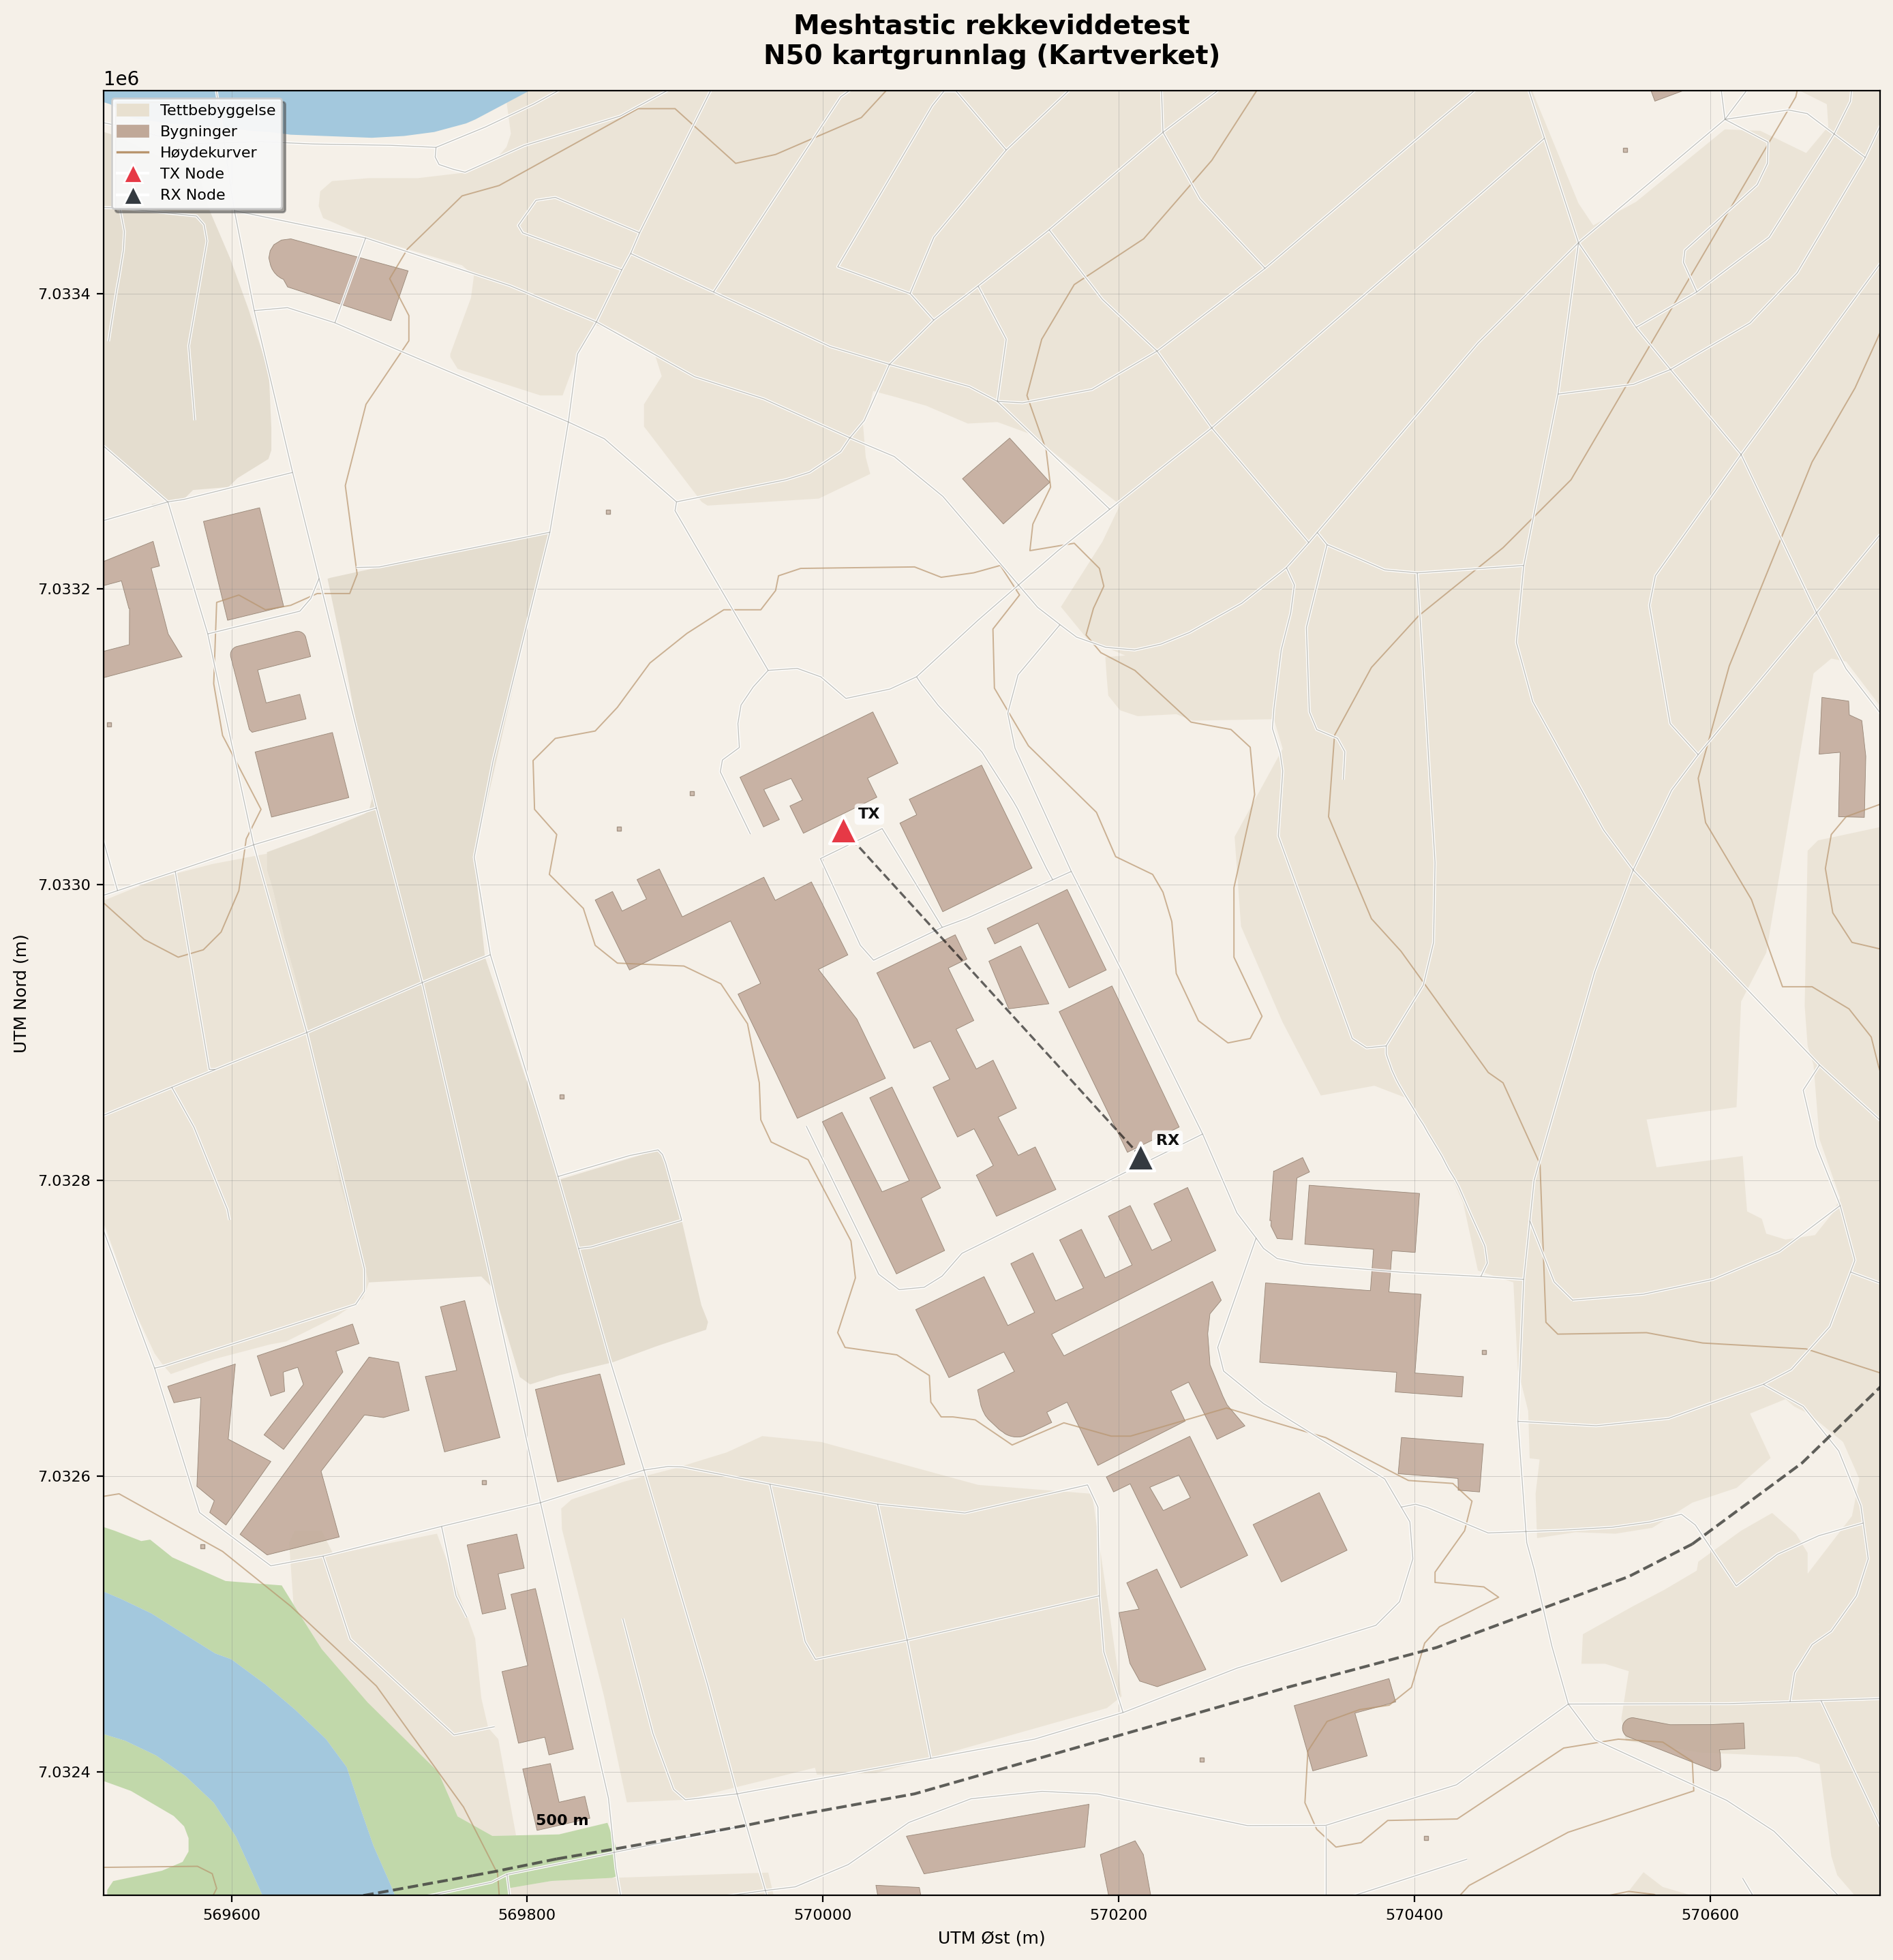
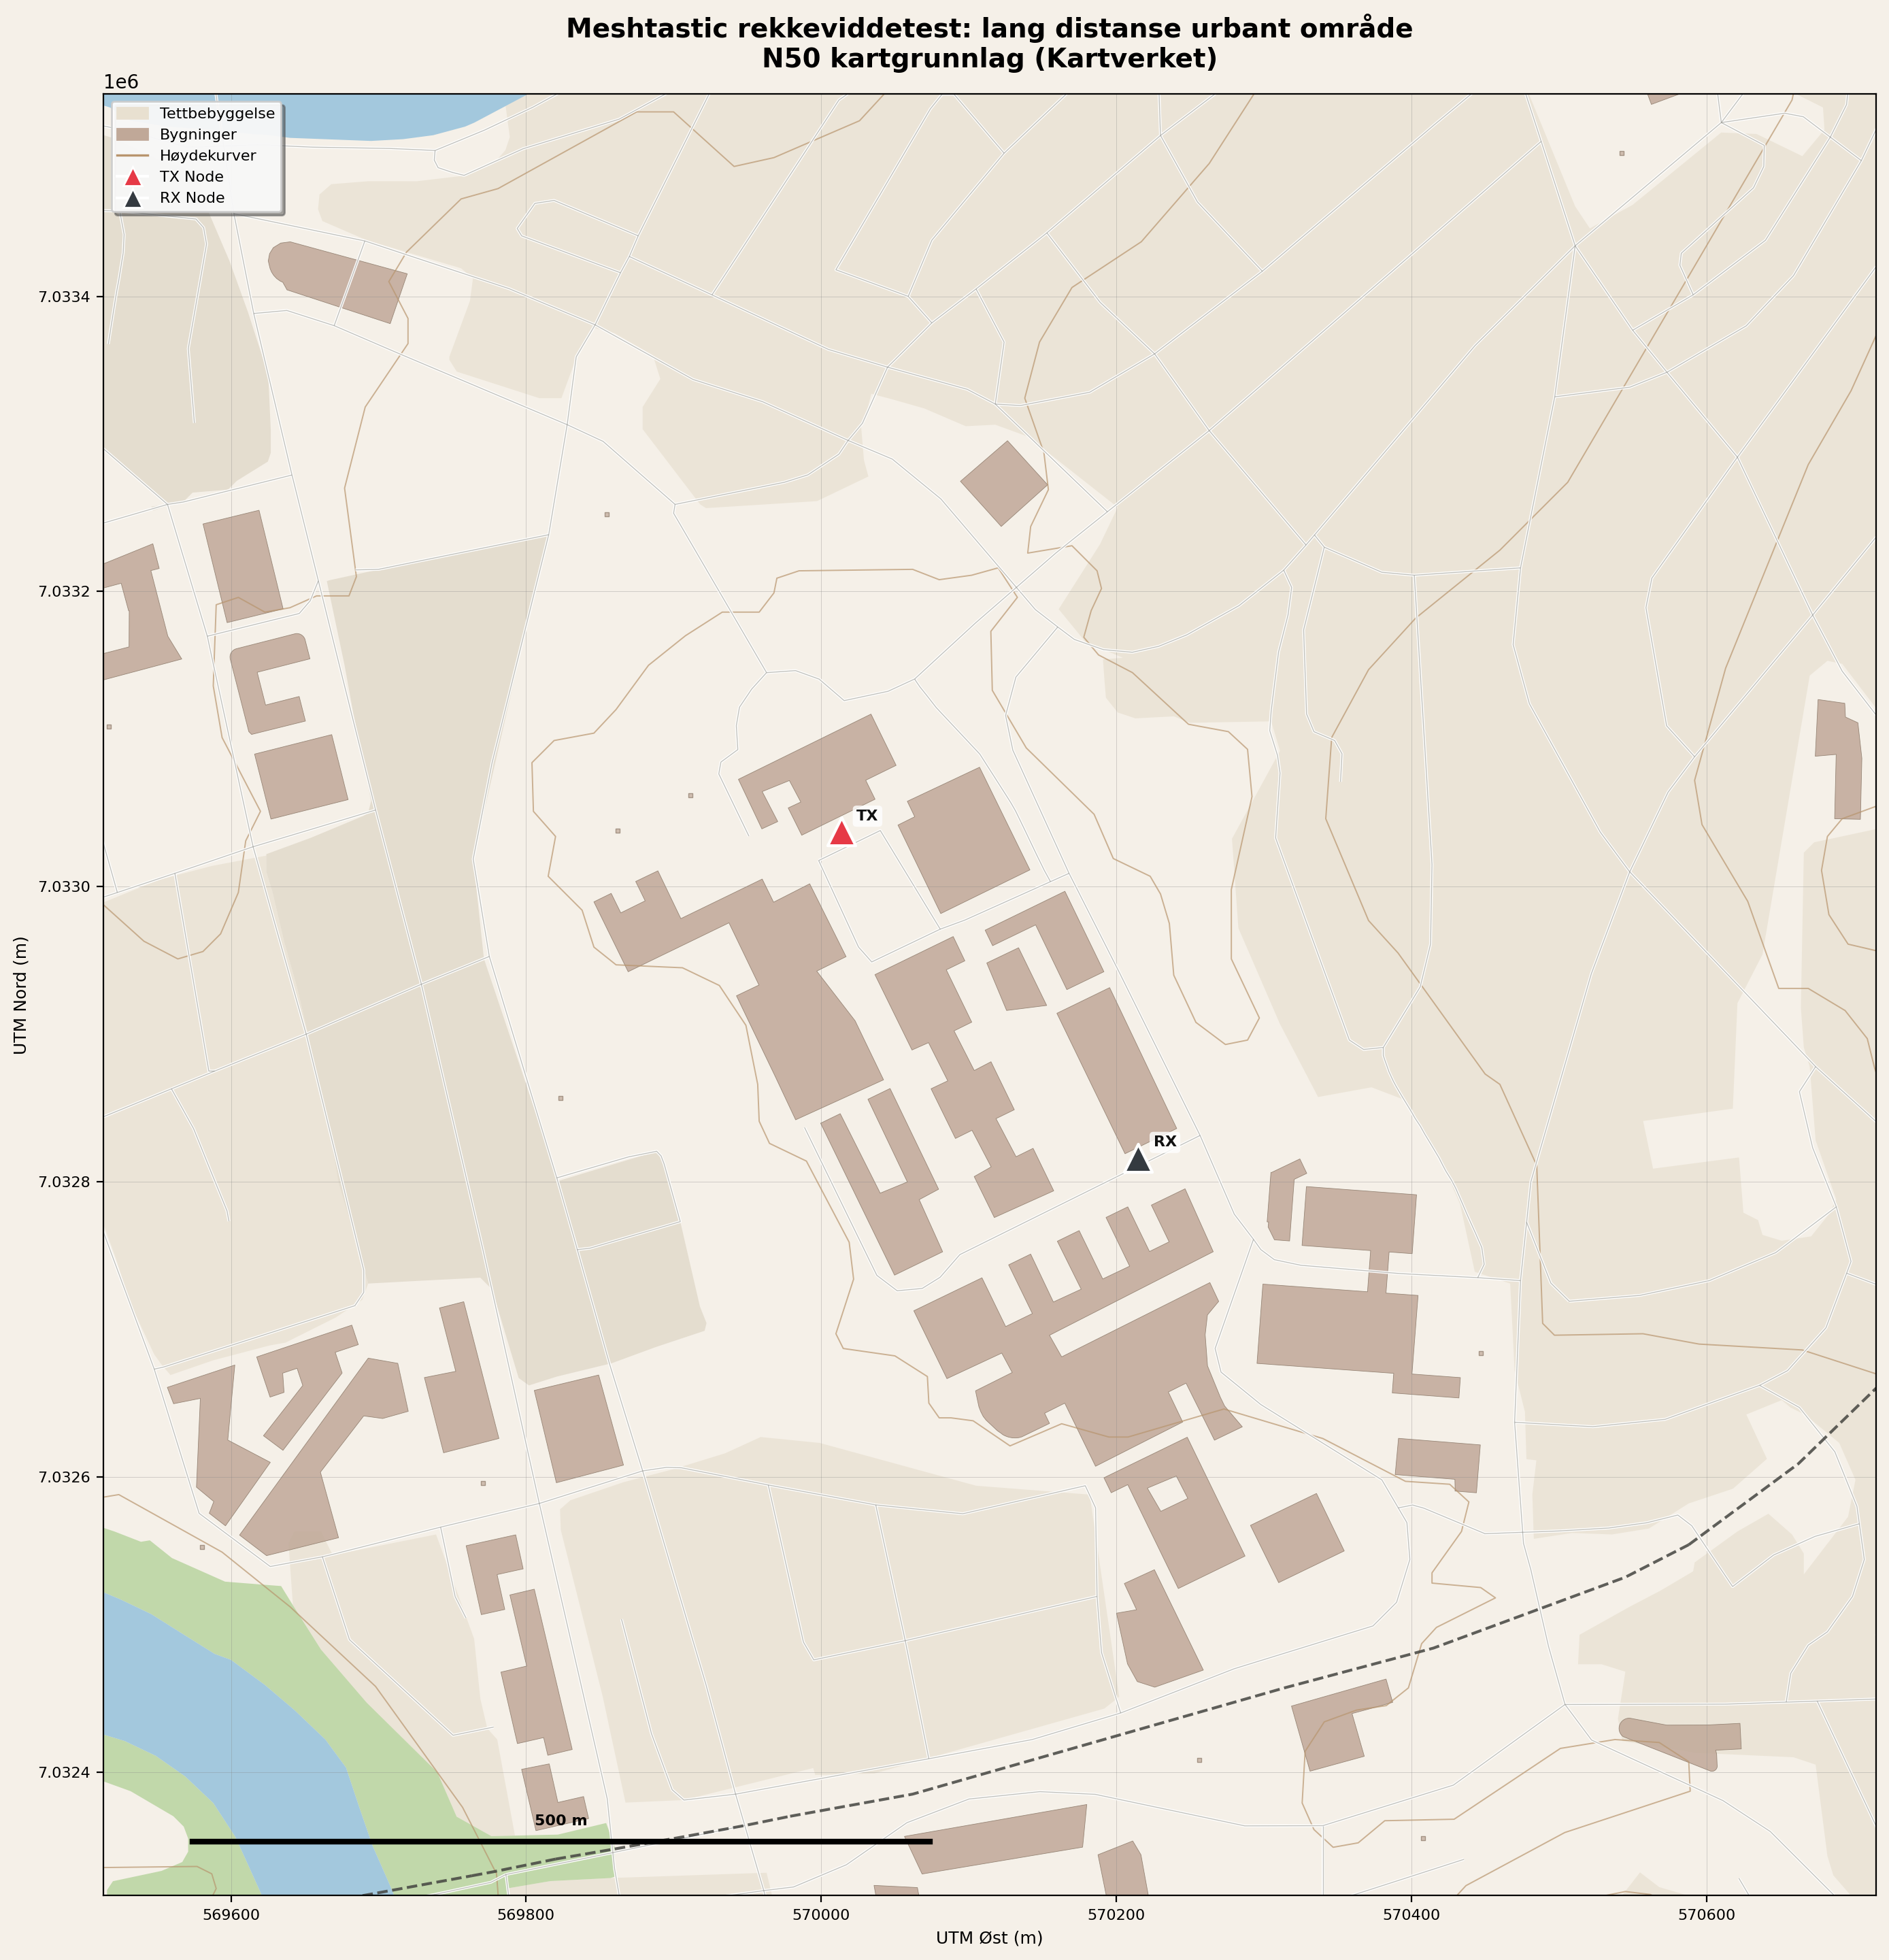
Alle csv filene ble ikke med sist gang

diff --git a/Plots/plot_meshtastic_n50_Filip.py b/Plots/plot_meshtastic_n50_Filip.py
@@ -26,13 +26,13 @@ UTFIL      = "Graakallen_estenstad_filip.png"
 OPPLOSNING = 200        # DPI
 FIGSTR     = (14, 16)   # Figurstørrelse i tommer
 
-# ── NEW MANUALLY DEFINED NODES ───────────────────────────────────────────────
-NODE_1_LAT, NODE_1_LON = 63.418969, 10.402455  # TX Node
-NODE_2_LAT, NODE_2_LON = 63.416946, 10.406386  # RX Node
+# ── OPPDATERTE KOORDINATER ───────────────────────────────────────────────────
+NODE_1_LAT, NODE_1_LON = 63.418140, 10.404026  # Ny TX Node-posisjon
+NODE_2_LAT, NODE_2_LON = 63.416946, 10.406386  # RX Node (forblir uendret)
 
 # ── ZOOM / KARTUTSNITT ───────────────────────────────────────────────────────
 ZOOM_MODUS   = "auto"      
-MARGIN_METER = 500         # Reduced margin to get a closer view of these two nodes
+MARGIN_METER = 500         # Buffer rundt nodene i meter
 
 # ─────────────────────────────────────────────────────────────────────────────
 # KOORDINATKONVERTERING
@@ -43,11 +43,11 @@ to_utm = Transformer.from_crs("EPSG:4326", "EPSG:25832", always_xy=True)
 def wgs84_til_utm(lat, lon):
     return to_utm.transform(lon, lat)
 
-# Convert our two specific manual nodes to UTM
+# Konverter de to spesifikke nodene til UTM
 node1_x, node1_y = wgs84_til_utm(NODE_1_LAT, NODE_1_LON)
 node2_x, node2_y = wgs84_til_utm(NODE_2_LAT, NODE_2_LON)
 
-# Calculate bounding box around our two specific nodes
+# Beregn boks basert på de nye posisjonene
 xmin = min(node1_x, node2_x) - MARGIN_METER
 xmax = max(node1_x, node2_x) + MARGIN_METER
 ymin = min(node1_y, node2_y) - MARGIN_METER
@@ -137,18 +137,15 @@ if len(veglenke):
 if len(bane):
     bane.plot(ax=ax, color='#444440', linewidth=1.5, alpha=0.85, linestyle='--')
 
-# ── PLOT THE TWO MANUALLY FIXED NODES ────────────────────────────────────────
+# ── PLOT NODENE ──────────────────────────────────────────────────────────────
 
-# 1. Clean line directly between the nodes (No text boxes along the line)
-ax.plot([node1_x, node2_x], [node1_y, node2_y], 'k--', linewidth=1.2, alpha=0.6, zorder=5)
-
-# 2. Plot TX Node (Red Triangle)
+# 1. Plot TX Node (Rød trekant - Ny posisjon)
 ax.scatter(node1_x, node1_y, c='#e63946', s=220, zorder=20, marker='^', edgecolors='white', linewidths=1.5)
 ax.annotate('TX', (node1_x, node1_y), textcoords='offset points', xytext=(8, 6),
             fontsize=8, fontweight='bold', color='#111111',
             bbox=dict(boxstyle='round,pad=0.25', facecolor='white', alpha=0.8, edgecolor='none'))
 
-# 3. Plot RX Node (Dark Slate Triangle)
+# 2. Plot RX Node (Mørkegrå trekant)
 ax.scatter(node2_x, node2_y, c='#343a40', s=220, zorder=20, marker='^', edgecolors='white', linewidths=1.5)
 ax.annotate('RX', (node2_x, node2_y), textcoords='offset points', xytext=(8, 6),
             fontsize=8, fontweight='bold', color='#111111',
@@ -162,13 +159,12 @@ legend_el = [
     Line2D([0],[0], color='#b8956e', linewidth=1.2, label='Høydekurver'),
     Line2D([0],[0], marker='^', color='w', markerfacecolor='#e63946', markersize=10, markeredgecolor='white', label="TX Node"),
     Line2D([0],[0], marker='^', color='w', markerfacecolor='#343a40', markersize=10, markeredgecolor='white', label="RX Node")
-    #Line2D([0],[0], color='k', linestyle='--', linewidth=1.2, label="TX-RX linje")
 ]
 
 ax.legend(handles=legend_el, loc='upper left', fontsize=8, framealpha=0.92, fancybox=True, shadow=True)
 
 # --- Rutenett og tittel ---
-ax.set_title('Meshtastic rekkeviddetest\nN50 kartgrunnlag (Kartverket)', fontsize=14, fontweight='bold', pad=14)
+ax.set_title('Meshtastic rekkeviddetest: kort distanse urbant område\nN50 kartgrunnlag (Kartverket)', fontsize=14, fontweight='bold', pad=14)
 ax.set_xlabel('UTM Øst (m)',  fontsize=9)
 ax.set_ylabel('UTM Nord (m)', fontsize=9)
 ax.tick_params(labelsize=8)
@@ -178,7 +174,7 @@ ax.grid(True, linewidth=0.3, alpha=0.4, color='#888888')
 skala_m = 500
 scale_x = xmin + (xmax - xmin) * 0.05
 scale_y = ymin + (ymax - ymin) * 0.03
-#ax.plot([scale_x, scale_x + skala_m], [scale_y, scale_y], 'k-', linewidth=3, zorder=25)
+ax.plot([scale_x, scale_x + skala_m], [scale_y, scale_y], 'k-', linewidth=3, zorder=25)
 ax.text(scale_x + skala_m / 2, scale_y + (ymax - ymin) * 0.009, f'{skala_m} m', ha='center', fontsize=8, fontweight='bold')
 
 # ─────────────────────────────────────────────────────────────────────────────

diff --git a/Plots/matrix_plot.py b/Plots/matrix_plot.py
@@ -7,7 +7,7 @@ import matplotlib.colors as mcolors
 
 def discover_devices(csv_dir):
     """Auto-discover TX and RX devices separately from filenames like tx_DEVICE1_rx_DEVICE2.csv"""
-    pattern = re.compile(r"^u_tx_(.+)_rx_(.+)\.csv$")
+    pattern = re.compile(r"^ul_tx_(.+)_rx_(.+)\.csv$")
     tx_devices = set()
     rx_devices = set()
     for fname in os.listdir(csv_dir):
@@ -67,7 +67,7 @@ def build_matrix(csv_dir, col_hint, tx_devices, rx_devices):
 
     for i, tx in enumerate(tx_devices):
         for j, rx in enumerate(rx_devices):
-            fp = os.path.join(csv_dir, f"u_tx_{tx}_rx_{rx}.csv")
+            fp = os.path.join(csv_dir, f"ul_tx_{tx}_rx_{rx}.csv")
             avg, count = read_avg(fp, col_hint)
             if avg is not None:
                 data[i, j] = avg
@@ -91,7 +91,7 @@ def plot_matrix(data, msgs, tx_devices, rx_devices, out_path, col_hint):
     vmin, vmax = (-128, -90) if is_rssi else (-20, 10)
     unit = "dBm" if is_rssi else "dB"
     colorbar_label = f"Avg RSSI ({unit})" if is_rssi else f"Avg SNR ({unit})"
-    title = "Meshtastic RSSI Matrix: All Combinations" if is_rssi else "Meshtastic SNR Matrix: All Combinations"
+    title = "Meshtastic RSSI Matrise: Urban lang" if is_rssi else "Meshtastic SNR Matrise: Urban lang"
 
     norm = mcolors.Normalize(vmin=vmin, vmax=vmax)
 
@@ -119,8 +119,8 @@ def plot_matrix(data, msgs, tx_devices, rx_devices, out_path, col_hint):
     ax.xaxis.tick_top()
     ax.set_xticklabels(rx_labels, rotation=30, ha="left", fontweight="bold")
     ax.set_yticklabels(tx_labels, fontweight="bold")
-    ax.set_xlabel("Receiver (RX)", fontsize=12, fontweight="bold")
-    ax.set_ylabel("Transmitter (TX)", fontsize=12, fontweight="bold")
+    ax.set_xlabel("Mottaker (RX)", fontsize=12, fontweight="bold")
+    ax.set_ylabel("Sender (TX)", fontsize=12, fontweight="bold")
     ax.set_xlim(-0.5, n_rx - 0.5)
     ax.set_ylim(n_tx - 0.5, -0.5)
 